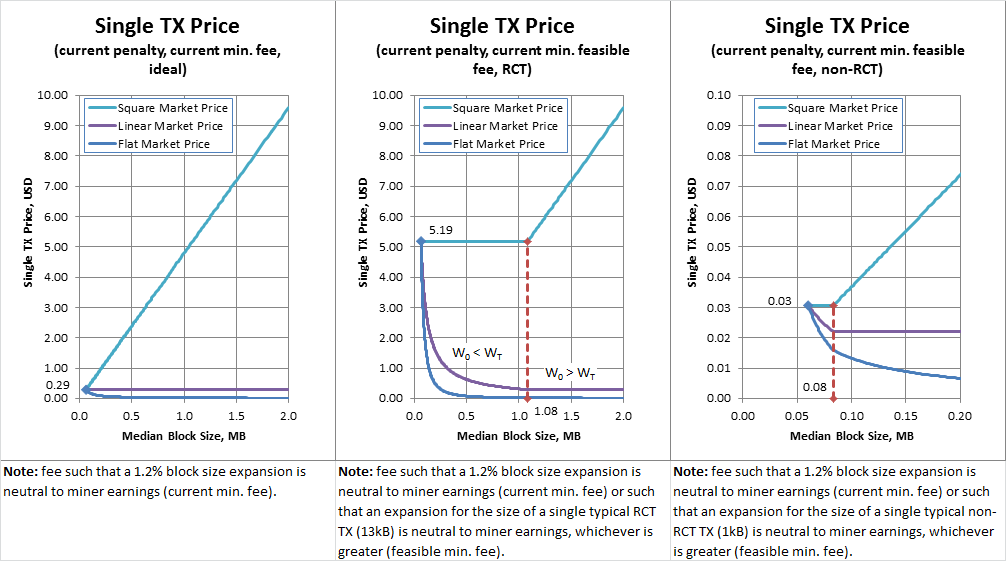
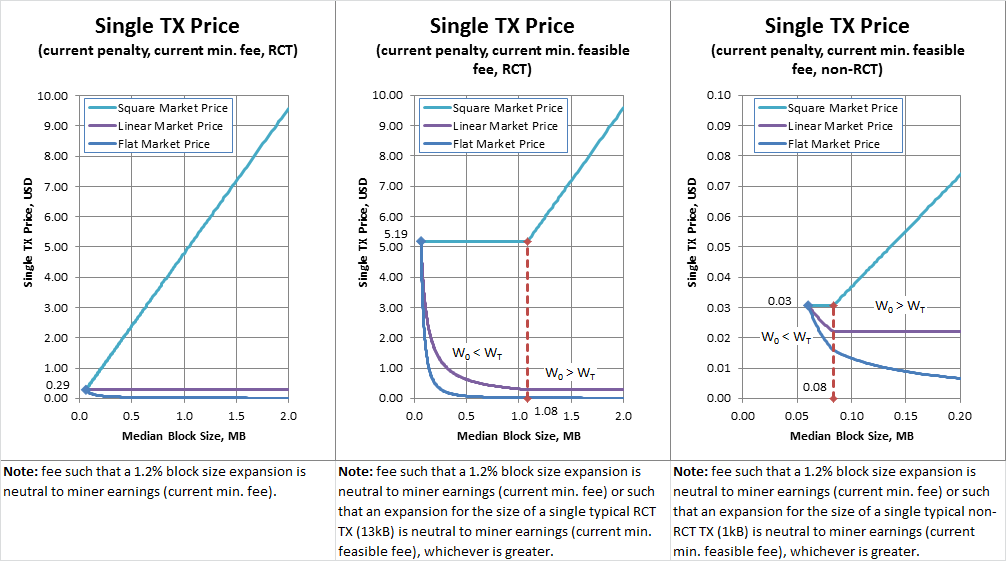
charts, charts!

diff --git a/Monero Dynamic Block Size and Dynamic Minimum Fee/Monero Dynamic Block Size and Dynamic Minimum Fee - DRAFT.md b/Monero Dynamic Block Size and Dynamic Minimum Fee/Monero Dynamic Block Size and Dynamic Minimum Fee - DRAFT.md
@@ -173,8 +173,9 @@ proposed multipliers 1x 4x(default) 20x 166x
 
 [fig5-1] optimum lines & multipliers
 [fig5-2] parabolas
-[fig5-3] price/tx, price/block
-[fig5-4] min possible fee
+[fig5-3] price/tx
+[fig5-4] price/block
+[fig5-5] min possible fee
 
 ### 6. A Note on Security (fireice)
 
